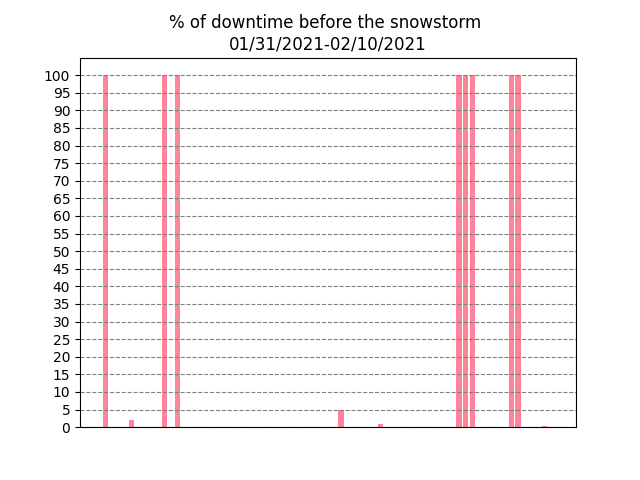
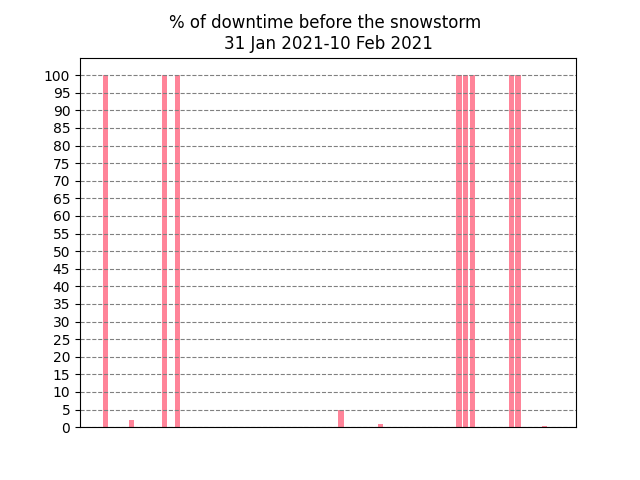
more graphs

Changed region(s): [[0.3438, 0.0625, 0.6875, 0.125]]

diff --git a/texas_measurements/parse_texas_files.py b/texas_measurements/parse_texas_files.py
@@ -80,7 +80,7 @@ for probe in probes:
     y_axis_more_after.append((downtime_after[probe].seconds - downtime_before[probe].seconds)/(60*60))
 
 
-graphs.make_bar_chart(x_axis, y_axis_before, "% of downtime before the snowstorm \n" + DATE_BEFORE_START.strftime("%m/%d/%Y") + "-" + DATE_START.strftime("%m/%d/%Y"), "./texas_measurements/graphs/downtime_before.png")
-graphs.make_bar_chart(x_axis, y_axis_during, "% of downtime during the snowstorm \n" + DATE_START.strftime("%m/%d/%Y") + "-" + DATE_END.strftime("%m/%d/%Y"), "./texas_measurements/graphs/downtime_during.png")
-graphs.make_bar_chart(x_axis, y_axis_after, "% of downtime after the snowstorm \n" + DATE_END.strftime("%m/%d/%Y") + "-" + DATE_AFTER_END.strftime("%m/%d/%Y"), "./texas_measurements/graphs/downtime_after.png")
-graphs.make_bar_chart(x_axis, y_axis_more_after, "# hours more downtime after the snowstorm \n " + DATE_BEFORE_START.strftime("%m/%d/%Y") + "-" + DATE_START.strftime("%m/%d/%Y") + " vs " + DATE_END.strftime("%m/%d/%Y") + "-" + DATE_AFTER_END.strftime("%m/%d/%Y"), "./texas_measurements/graphs/after_vs_before.png", yticks=[-20, -15, -10, -5, 0, 5, 10, 15, 20, 25, 30])
+graphs.make_bar_chart(x_axis, y_axis_before, "% of downtime before the snowstorm \n" + DATE_BEFORE_START.strftime("%d %b %Y") + "-" + DATE_START.strftime("%d %b %Y"), "./texas_measurements/graphs/downtime_before.png")
+graphs.make_bar_chart(x_axis, y_axis_during, "% of downtime during the snowstorm \n" + DATE_START.strftime("%d %b %Y") + "-" + DATE_END.strftime("%d %b %Y"), "./texas_measurements/graphs/downtime_during.png")
+graphs.make_bar_chart(x_axis, y_axis_after, "% of downtime after the snowstorm \n" + DATE_END.strftime("%d %b %Y") + "-" + DATE_AFTER_END.strftime("%d %b %Y"), "./texas_measurements/graphs/downtime_after.png")
+graphs.make_bar_chart(x_axis, y_axis_more_after, "# hours more downtime after the snowstorm \n ", "./texas_measurements/graphs/after_vs_before.png", yticks=[-20, -15, -10, -5, 0, 5, 10, 15, 20, 25, 30])
